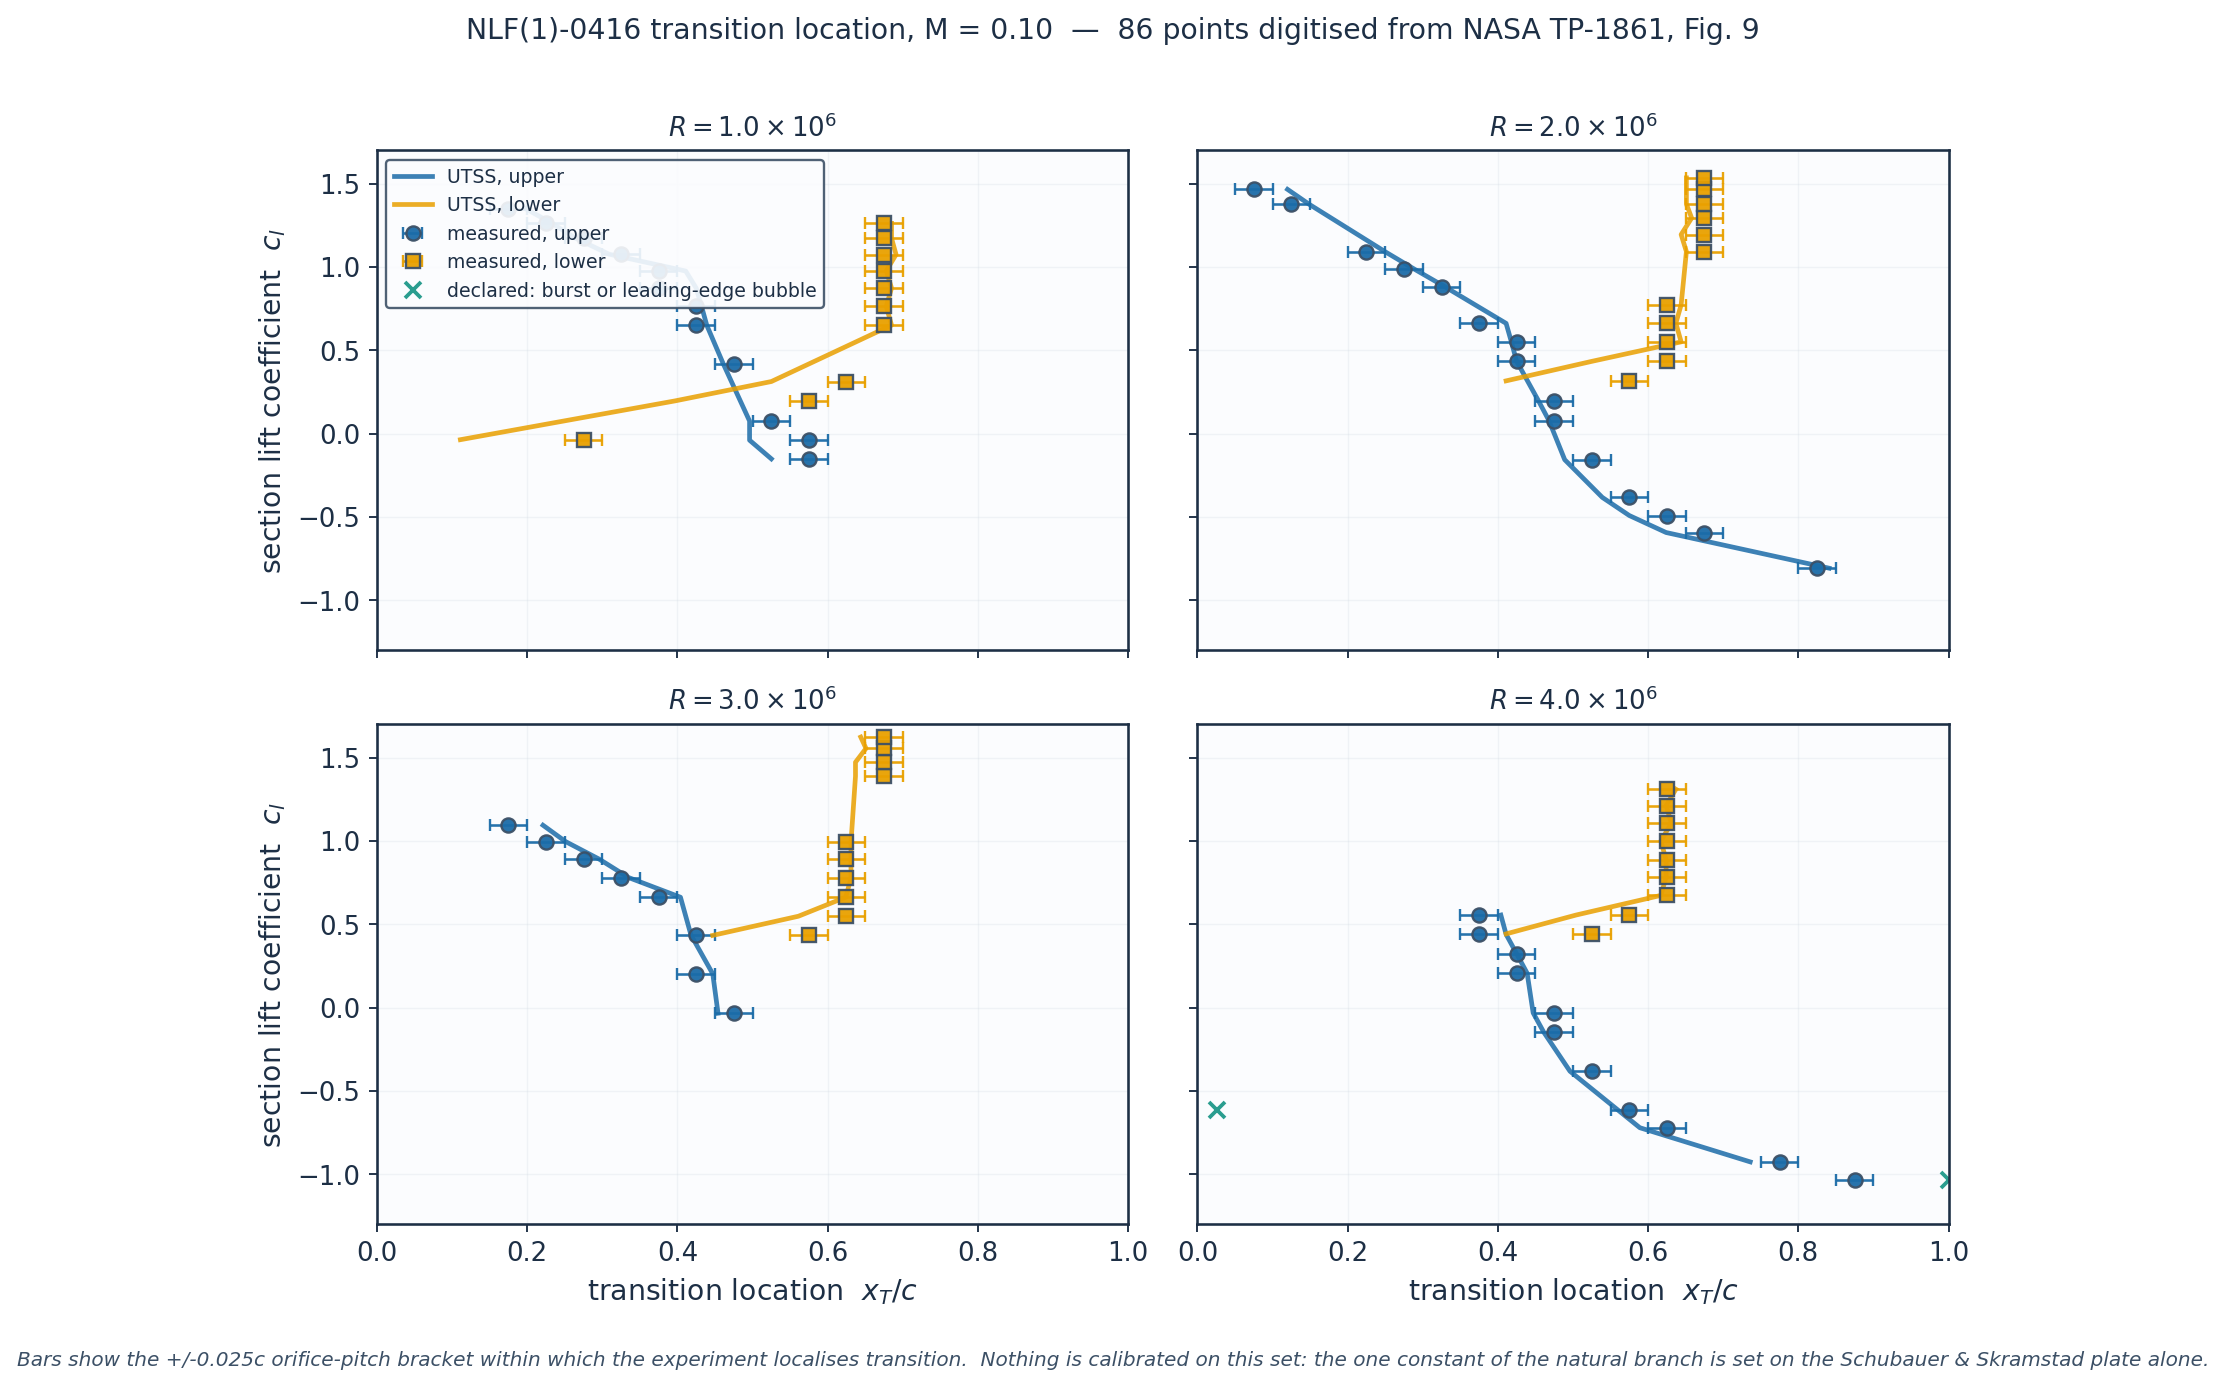
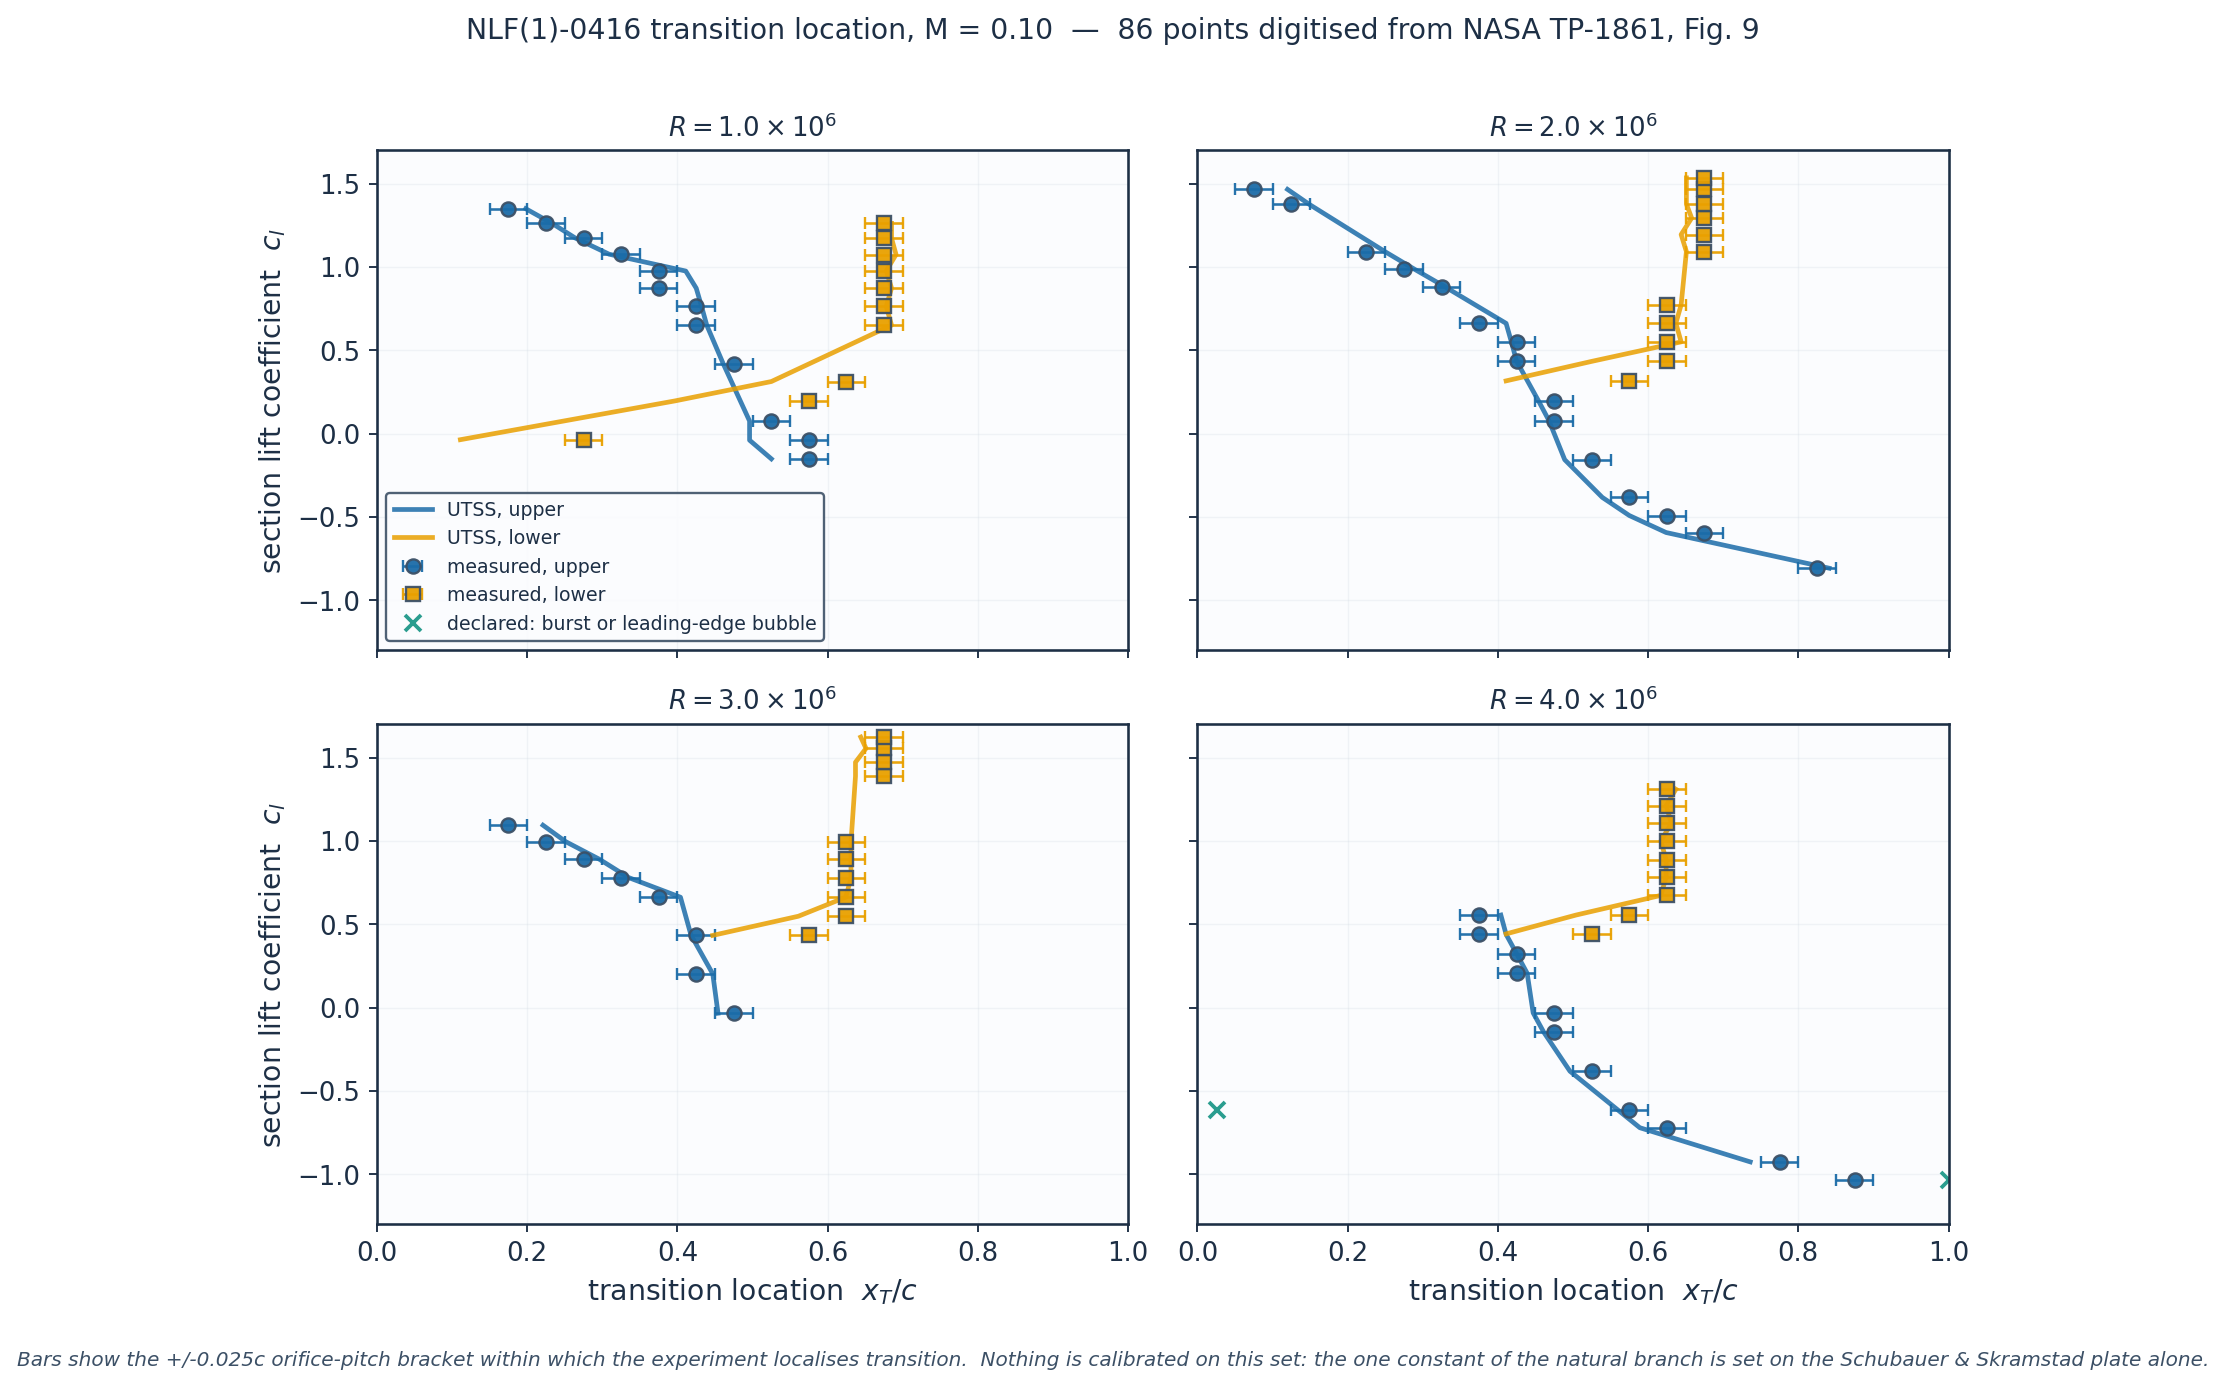
A plotter that returns four empty axes when fed its own CSV
Pass thirteen, still on the pictures.

A LATENT TRAP, TRIGGERED BY LOOKING.  plot_nlf0416 selects its four panels by
comparing Re_c against the FORMATTED STRING run_nlf0416 writes, "1.0e+06".  A
frame read back from the committed CSV carries the float 1000000.0, so every
comparison is false, every panel selection is empty, and the figure comes out
as four blank axes with a full legend and no error of any kind.  The shipped
pipeline passes the in-memory frame and never saw it; I saw it by calling the
plotter with the CSV beside it.  The selection is numeric now and raises with
the Reynolds number named if it ever matches nothing, and a smoke check drives
the plotter from the committed CSV - which is the round trip - and asserts the
four panels between them cover all 86 rows.

A LEGEND ON TOP OF THE DATA.  The same figure pinned its legend to "upper
left" of the R = 1e6 panel, which is where that panel's upper-surface curve
and six of its measured points sit; they were hidden behind the box.
matplotlib's "best" places it by minimising overlap with the artists actually
drawn, so it follows the data instead of a hardcoded corner - and the six
points are visible for the first time.

CAPTIONS THAT TRAILED OFF MID-WORD.  Both swept-wing figures cut their source
string at a fixed character count, so one read "...Effects of Sweep Angle on
the Boun...", which looks like a rendering fault rather than a deliberate
[…]

diff --git a/gen_validation.py b/gen_validation.py
@@ -368,7 +368,7 @@ def run_swept():
     ax.set_title("Cross-flow validation: 45° swept NLF(2)-0415, α = −4°")
     ax.legend(loc="upper right",fontsize=10)
     finish(fig,f"{VP}/val_swept_crossflow.png",
-           caption="Source: "+v["source"][:95]+"...")
+           caption="Source: "+_cite(v["source"]))
     print("swept-wing cross-flow: mean |err| = %.1f%%"
           % float(np.mean(np.abs(df["err_pct"]))))
     return df
@@ -489,7 +489,7 @@ def run_swept2():
     ax.legend(loc="upper right",fontsize=9)
     finish(fig,f"{VP}/val_swept_independent.png",
            caption="Nothing is calibrated on this set.  Source: "
-                   +v["source"][:80]+"...")
+                   +_cite(v["source"], 80))
     for c1 in CF_BAND:
         print("independent swept-wing, C1 = %3d: mean |err| = %.1f%%"
               % (c1, float(np.mean(np.abs(df[f"err_pct_C1_{int(c1)}"])))))
@@ -1502,12 +1502,25 @@ def plot_nlf0416(df=None):
     v = C.NLF0416
     if df is None:
         df = run_nlf0416(quiet=True)
+    # Re_c is WRITTEN as a formatted string, "1.0e+06", so an in-memory frame
+    # from run_nlf0416 carries strings and one read back from the CSV carries
+    # floats.  The panel selection used to compare against the string form, so
+    # calling this with its own committed CSV matched no row in any panel and
+    # produced four EMPTY axes with a full legend and no error - which is how
+    # it was found.  Selecting on a numeric column works from either.
+    df = df.copy()
+    df["_Re_c_num"] = pd.to_numeric(df["Re_c"], errors="coerce")
     fig, axes = plt.subplots(2, 2, figsize=(10.4, 8.2), sharex=True, sharey=True)
     half = v["orifice_pitch"]/2.0
     for ax, Rec in zip(axes.ravel(), sorted(v["data"])):
-        tag = f"{Rec:.1e}"
         for surf, col, mk in (("upper", PALETTE[0], "o"), ("lower", PALETTE[3], "s")):
-            d = df[(df.Re_c == tag) & (df.surface == surf)].sort_values("c_l_exp")
+            d = df[np.isclose(df["_Re_c_num"], Rec, rtol=1e-6)
+                   & (df.surface == surf)].sort_values("c_l_exp")
+            if not len(d):
+                raise ValueError(
+                    "no %s-surface rows at Re_c = %.3g; the panel selection "
+                    "matched nothing, which is the empty-figure fault"
+                    % (surf, Rec))
             ax.errorbar(d.x_tr_c_exp, d.c_l_exp, xerr=half, fmt=mk, ms=6,
                         color=col, mec=INK_SOFT, lw=0, elinewidth=1.1,
                         capsize=2.5, ecolor=col, alpha=0.95,
@@ -1544,7 +1557,11 @@ def plot_nlf0416(df=None):
     handles.append(Line2D([], [], color=PALETTE[2], marker="x", ms=7, mew=1.6,
                           lw=0))
     labels.append("declared: burst or leading-edge bubble")
-    axes[0, 0].legend(handles, labels, loc="upper left", fontsize=8,
+    # "best", not "upper left".  The lower-surface curve in the R = 1e6 panel
+    # rises steeply into the top-left corner, and a hardcoded corner put the
+    # legend box on top of it.  matplotlib places "best" by minimising overlap
+    # with the artists actually drawn, so it follows the data if the data moves.
+    axes[0, 0].legend(handles, labels, loc="best", fontsize=8,
                       framealpha=0.9)
     fig.suptitle("NLF(1)-0416 transition location, M = 0.10  —  "
                  "86 points digitised from NASA TP-1861, Fig. 9", fontsize=12)
@@ -1595,6 +1612,22 @@ def plot_case(key):
     ax.legend(loc="lower left",fontsize=10)
     finish(fig,f"{VP}/val_{key}.png",
            caption=f"Source: {v['source'][:95]}...")
+
+def _cite(source, n=95):
+    """A figure-caption citation cut at a WORD boundary, not mid-word.
+
+    Both swept-wing captions truncated a source string at a fixed character
+    count, so they trailed off as "...Effects of Sweep Angle on the Boun...",
+    which reads as a rendering fault rather than as a deliberate shortening.
+    The full string is in the _source.csv beside the figure and in
+    sources_and_references.csv, and the caption says so.
+    """
+    src = " ".join(str(source).split())
+    if len(src) <= n:
+        return src
+    cut = src[:n].rsplit(" ", 1)[0].rstrip(",;:")
+    return cut + " … (full citation in sources_and_references.csv)"
+
 
 def _short(key):
     """The case key as the report and the README write it.

diff --git a/tools/smoke.py b/tools/smoke.py
@@ -1238,6 +1238,36 @@ def no_axis_limit_is_set_before_its_scale():
         "\n   ".join(bad)
 
 
+@check
+def plotters_work_from_their_own_committed_csvs():
+    """a figure must not come out empty when fed the CSV it was written from"""
+    import pandas as pd
+    p = "06_validation/aerofoil_nlf0416.csv"
+    if not os.path.exists(p):
+        return
+    import gen_validation as GV
+    # Re_c is WRITTEN as the formatted string "1.0e+06" and comes back from a
+    # CSV as the float 1000000.0, so a panel selection that compared against
+    # the string matched nothing and produced four empty axes with a full
+    # legend and no error at all.  The committed CSV is the round trip, so it
+    # is what the check feeds in.
+    n = 0
+    GV.plot_nlf0416(pd.read_csv(p))
+    # the figure is written to disk; assert it is not the empty one by counting
+    # the rows the selection would find
+    df = pd.read_csv(p)
+    rec = pd.to_numeric(df["Re_c"], errors="coerce")
+    for Rec in sorted(GV.C.NLF0416["data"]):
+        for surf in ("upper", "lower"):
+            sel = (np.isclose(rec, Rec, rtol=1e-6)) & (df.surface == surf)
+            n += int(sel.sum())
+            assert sel.any(), \
+                "no %s rows at Re_c = %.3g when the CSV is read back" \
+                % (surf, Rec)
+    assert n == len(df), \
+        "the panel selections cover %d of the %d rows" % (n, len(df))
+
+
 def main():
     only = None
     if "-k" in sys.argv:
